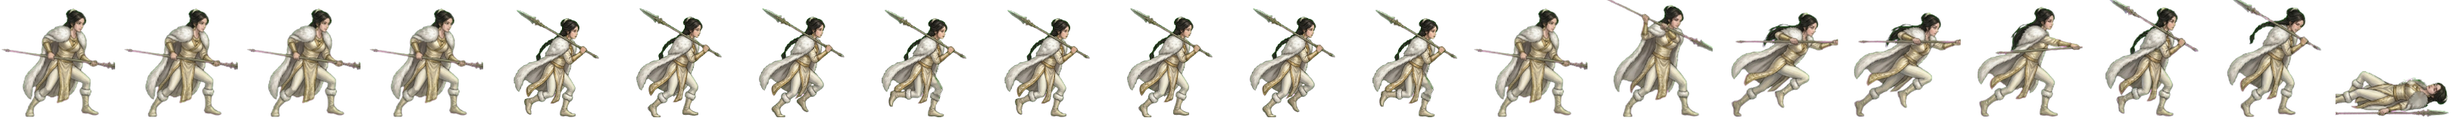
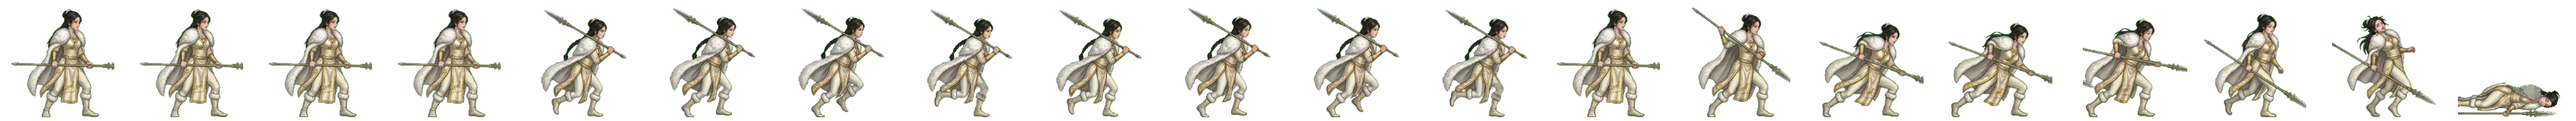
전투 띠 새로: 구가 누리 동작 다시 — 창을 두 손으로 잡고 아래로 찌른다 (빈 주먹·창날 없는 찌르기 고침 · 제미나이 u/2 · 11-09 띠 검수) (형 11-08)
Claude-Session: https://claude.ai/code/session_01TRiuNAG8xSjdmjCFpc8Rd5

diff --git a/src/ui/realm/battle-strikes.ts b/src/ui/realm/battle-strikes.ts
@@ -143,7 +143,7 @@ const CONTACT: Readonly<Record<string, [number, number, number]>> = {
   'gen-haebi': [14, 0.87, 0.53], 'gen-heo': [14, 0.94, 0.46], 'gen-hyeokgeose': [14, 0.83, 0.94],
   'gen-hyeopbo': [14, .93, .21], 'gen-malgalgi': [14, 0.88, 0.28], 'gen-mari': [14, .98, .47],
   'gen-oi': [14, .98, .48], 'gen-onjo': [14, 0.83, 0.93], 'gen-soebi': [14, 0.80, 0.95],
-  'gen-soseono': [14, 0.92, 0.31], 'gen-maryeo': [14, 0.91, 0.79], 'gen-horselord': [14, 0.89, 0.25], 'gen-olddaeso': [14, 0.93, 0.91], 'gen-maro': [14, 0.97, 0.49], 'gen-gwaeyu': [14, 0.98, 0.71], 'gen-daemusin': [14, 0.91, 0.38], 'gen-tahae': [14, 0.91, 0.74], 'gen-ocheongan': [14, 0.82, 0.49], 'gen-yusugan': [14, 0.95, 0.70], 'gen-odogan': [14, 0.93, 0.28], 'gen-pidogan': [14, 0.94, 0.75], 'gen-yeodogan': [14, 0.93, 0.57], 'gen-adogan': [14, 0.95, 0.41], 'gen-musoe': [14, 0.94, 0.39], 'gen-suro': [14, 0.82, 0.53], 'gen-waechief': [14, 0.95, 0.68], 'gen-hojin': [14, 0.97, 0.64], 'gen-jita': [14, 0.94, 0.34], 'gen-guryema': [14, 0.89, 0.28], 'gen-jibaekho': [14, 0.97, 0.33], 'gen-sobeol': [14, 0.95, 0.33], 'gen-alpyeong': [14, 0.95, 0.54], 'gen-hogong': [14, 0.98, 0.27], 'gen-geumbawi': [14, 0.91, 0.92], 'gen-keundol': [14, 0.90, 0.68], 'gen-jinha': [14, 0.76, 0.93], 'gen-duman': [14, 0.97, 0.39], 'gen-gomok': [14, 0.94, 0.57], 'gen-hneoul': [14, 0.92, 0.27], 'gen-tneoul': [14, 0.84, 0.57], 'gen-sdallae': [14, 0.89, 0.29], 'gen-yucheongan': [14, 0.97, 0.64], 'gen-sincheongan': [14, 0.91, 0.71], 'gen-singwigan': [14, 0.91, 0.27], 'gen-mdallae': [14, 0.98, 0.30], 'gen-mulbeom': [14, 0.97, 0.36], 'gen-beomi': [14, 0.88, 0.43], 'gen-danbi': [14, 0.90, 0.30], 'gen-mulsae': [14, 0.93, 0.36], 'gen-darae': [14, 0.89, 0.29], 'gen-mir': [14, 0.91, 0.33], 'gen-wan': [14, 0.94, 0.30], 'gen-gom': [14, 0.94, 0.74], 'gen-sagong': [14, 0.79, 0.96], 'gen-halla': [14, 0.86, 0.46], 'gen-areum': [14, 0.86, 0.65], 'gen-dokmudeom': [14, 0.92, 0.29], 'gen-beom': [14, 0.98, 0.28], 'gen-baram': [14, 0.96, 0.24], 'gen-goeun': [14, 0.95, 0.66], 'gen-byeol': [14, 0.76, 0.96], 'gen-sinneoul': [14, 0.94, 0.33], 'gen-haesol': [14, 0.91, 0.47], 'gen-odi': [14, 0.96, 0.46], 'gen-irang': [14, 0.86, 0.30], 'gen-dalli': [14, 0.89, 0.32], 'gen-bakdal': [14, 0.94, 0.27], 'gen-noeul': [14, 0.88, 0.27], 'gen-maehwa': [14, 0.90, 0.31], 'gen-gaon': [14, 0.98, 0.59], 'gen-eomni': [14, 0.96, 0.42], 'gen-nuri': [14, 0.98, 0.34], 'gen-bira': [14, 0.88, 0.33], 'gen-gureum': [14, 0.98, 0.42],
+  'gen-soseono': [14, 0.92, 0.31], 'gen-maryeo': [14, 0.91, 0.79], 'gen-horselord': [14, 0.89, 0.25], 'gen-olddaeso': [14, 0.93, 0.91], 'gen-maro': [14, 0.97, 0.49], 'gen-gwaeyu': [14, 0.98, 0.71], 'gen-daemusin': [14, 0.91, 0.38], 'gen-tahae': [14, 0.91, 0.74], 'gen-ocheongan': [14, 0.82, 0.49], 'gen-yusugan': [14, 0.95, 0.70], 'gen-odogan': [14, 0.93, 0.28], 'gen-pidogan': [14, 0.94, 0.75], 'gen-yeodogan': [14, 0.93, 0.57], 'gen-adogan': [14, 0.95, 0.41], 'gen-musoe': [14, 0.94, 0.39], 'gen-suro': [14, 0.82, 0.53], 'gen-waechief': [14, 0.95, 0.68], 'gen-hojin': [14, 0.97, 0.64], 'gen-jita': [14, 0.94, 0.34], 'gen-guryema': [14, 0.89, 0.28], 'gen-jibaekho': [14, 0.97, 0.33], 'gen-sobeol': [14, 0.95, 0.33], 'gen-alpyeong': [14, 0.95, 0.54], 'gen-hogong': [14, 0.98, 0.27], 'gen-geumbawi': [14, 0.91, 0.92], 'gen-keundol': [14, 0.90, 0.68], 'gen-jinha': [14, 0.76, 0.93], 'gen-duman': [14, 0.97, 0.39], 'gen-gomok': [14, 0.94, 0.57], 'gen-hneoul': [14, 0.92, 0.27], 'gen-tneoul': [14, 0.84, 0.57], 'gen-sdallae': [14, 0.89, 0.29], 'gen-yucheongan': [14, 0.97, 0.64], 'gen-sincheongan': [14, 0.91, 0.71], 'gen-singwigan': [14, 0.91, 0.27], 'gen-mdallae': [14, 0.98, 0.30], 'gen-mulbeom': [14, 0.97, 0.36], 'gen-beomi': [14, 0.88, 0.43], 'gen-danbi': [14, 0.90, 0.30], 'gen-mulsae': [14, 0.93, 0.36], 'gen-darae': [14, 0.89, 0.29], 'gen-mir': [14, 0.91, 0.33], 'gen-wan': [14, 0.94, 0.30], 'gen-gom': [14, 0.94, 0.74], 'gen-sagong': [14, 0.79, 0.96], 'gen-halla': [14, 0.86, 0.46], 'gen-areum': [14, 0.86, 0.65], 'gen-dokmudeom': [14, 0.92, 0.29], 'gen-beom': [14, 0.98, 0.28], 'gen-baram': [14, 0.96, 0.24], 'gen-goeun': [14, 0.95, 0.66], 'gen-byeol': [14, 0.76, 0.96], 'gen-sinneoul': [14, 0.94, 0.33], 'gen-haesol': [14, 0.91, 0.47], 'gen-odi': [14, 0.96, 0.46], 'gen-irang': [14, 0.86, 0.30], 'gen-dalli': [14, 0.89, 0.32], 'gen-bakdal': [14, 0.94, 0.27], 'gen-noeul': [14, 0.88, 0.27], 'gen-maehwa': [14, 0.90, 0.31], 'gen-gaon': [14, 0.98, 0.59], 'gen-eomni': [14, 0.96, 0.42], 'gen-nuri': [14, 0.93, 0.66], 'gen-bira': [14, 0.88, 0.33], 'gen-gureum': [14, 0.98, 0.42],
   'gen-biryu': [14, 0.90, 0.35], 'gen-geumha': [14, 0.94, 0.61], 'gen-geota': [14, 0.86, 0.47], 'gen-soebo': [14, 0.87, 0.57],
   'gen-gaennae': [14, 249 / 264, 47 / 160],
   'gen-budeul': [14, 266 / 280, 51 / 160],

diff --git a/src/realm/data/art.ts b/src/realm/data/art.ts
@@ -515,7 +515,7 @@ export const GEN_ANIM: Readonly<Partial<Record<string, { ar: number; body: numbe
   maehwa: { ar: 143 / 160, body: 0.894, bow: true }, // 11-08 초상대로 다시 (형: 「투구 쓰고 원본과 다르다」 · 제미나이 걷기 4×2 + 동작 4×2 → 20컷 · assets_src/realm/gemini/generals2) · 11-08 처음 · 깃 머리띠·짙은 붉은 짧은 저고리·꿩깃 화살통·맥궁
   gaon: { ar: 164 / 160, body: 0.894 }, // 11-08 초상대로 다시 (형: 「투구 쓰고 원본과 다르다」 · 제미나이 걷기 4×2 + 동작 4×2 → 20컷 · assets_src/realm/gemini/generals2) · 11-08 처음 · 부여 가온 동작 다시 — 창을 두 손으로 잡고 아래로 찌른다 (흰 깃털 조각·창날 없는 찌르기 고침 · 제미나이 u/1 · 11-09 띠 검수)
   eomni: { ar: 159 / 160, body: 0.900 }, // 11-08 초상대로 다시 (형: 「투구 쓰고 원본과 다르다」 · 제미나이 걷기 4×2 + 동작 4×2 → 20컷 · assets_src/realm/gemini/generals2) · 11-08 처음 · 땋은 머리·검은 곰 털 망토·짧은 흰 윗옷·이빨 목걸이·쇠 창 찌르기 · 걷기는 창을 어깨에 멘 아랫줄만
-  nuri: { ar: 162 / 160, body: 0.900 }, // 11-08 초상대로 다시 (형: 「투구 쓰고 원본과 다르다」 · 제미나이 걷기 4×2 + 동작 4×2 → 20컷 · assets_src/realm/gemini/generals2) · 11-08 처음 · 흰 털 어깨 망토·크림빛 비단 옷·금 목걸이·창 찌르기 · 걷기는 창을 어깨에 멘 아랫줄만
+  nuri: { ar: 170 / 160, body: 0.894 }, // 11-08 초상대로 다시 (형: 「투구 쓰고 원본과 다르다」 · 제미나이 걷기 4×2 + 동작 4×2 → 20컷 · assets_src/realm/gemini/generals2) · 11-08 처음 · 구가 누리 동작 다시 — 창을 두 손으로 잡고 아래로 찌른다 (빈 주먹·창날 없는 찌르기 고침 · 제미나이 u/2 · 11-09 띠 검수)
   bira: { ar: 156 / 160, body: 0.900 }, // 11-08 초상대로 다시 (형: 「투구 쓰고 원본과 다르다」 · 제미나이 걷기 4×2 + 동작 4×2 → 20컷 · assets_src/realm/gemini/generals2) · 11-08 처음 · 푸른 깃 머리띠·푸른 짧은 조끼·밧줄 타래·조개 목걸이·작살 창 찌르기 · 걷기는 아랫줄만
   soenun: { ar: 280 / 160, body: 0.9375 }, // 11-08 쇠눈 · 제미나이 u/2 2×2(겨눔·찌르기·거둠·피격) + 새 대화 쓰러짐 · 갯내 4실보행 하체(짙은 바지 · 걷는 동안 쇠 정강이받이는 장화로 보인다) · 창 자루는 걷기에도 남긴다
   odi: { ar: 151 / 160, body: 0.900 }, // 11-08 초상대로 다시 (형: 「투구 쓰고 원본과 다르다」 · 제미나이 걷기 4×2 + 동작 4×2 → 20컷 · assets_src/realm/gemini/generals2) · 11-08 처음 · 조문 오디 동작 다시 — 창을 두 손으로 잡고 앞으로 찌른다 (빈 주먹 찌르기 고침 · 제미나이 u/0 · 11-09 띠 검수)
